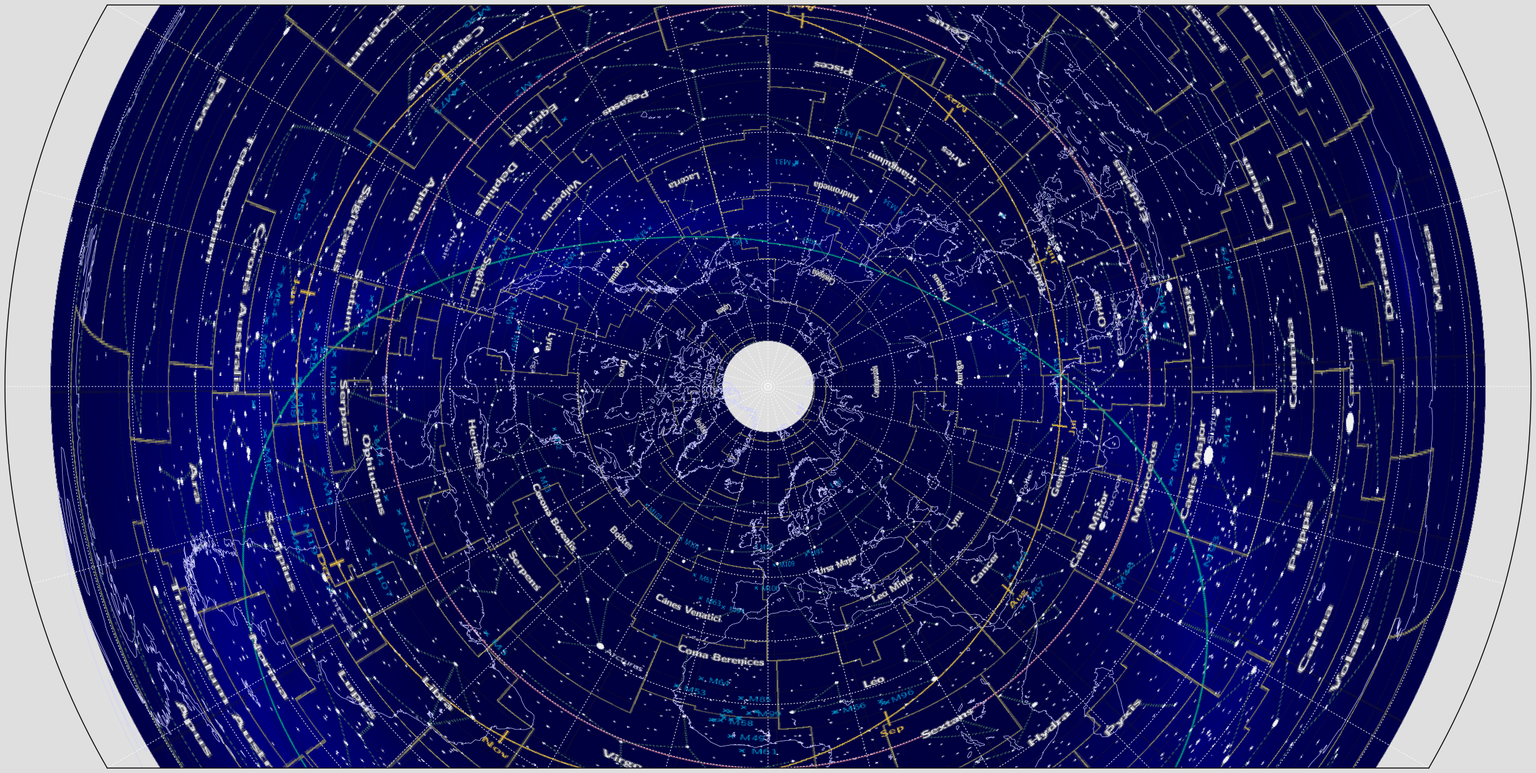
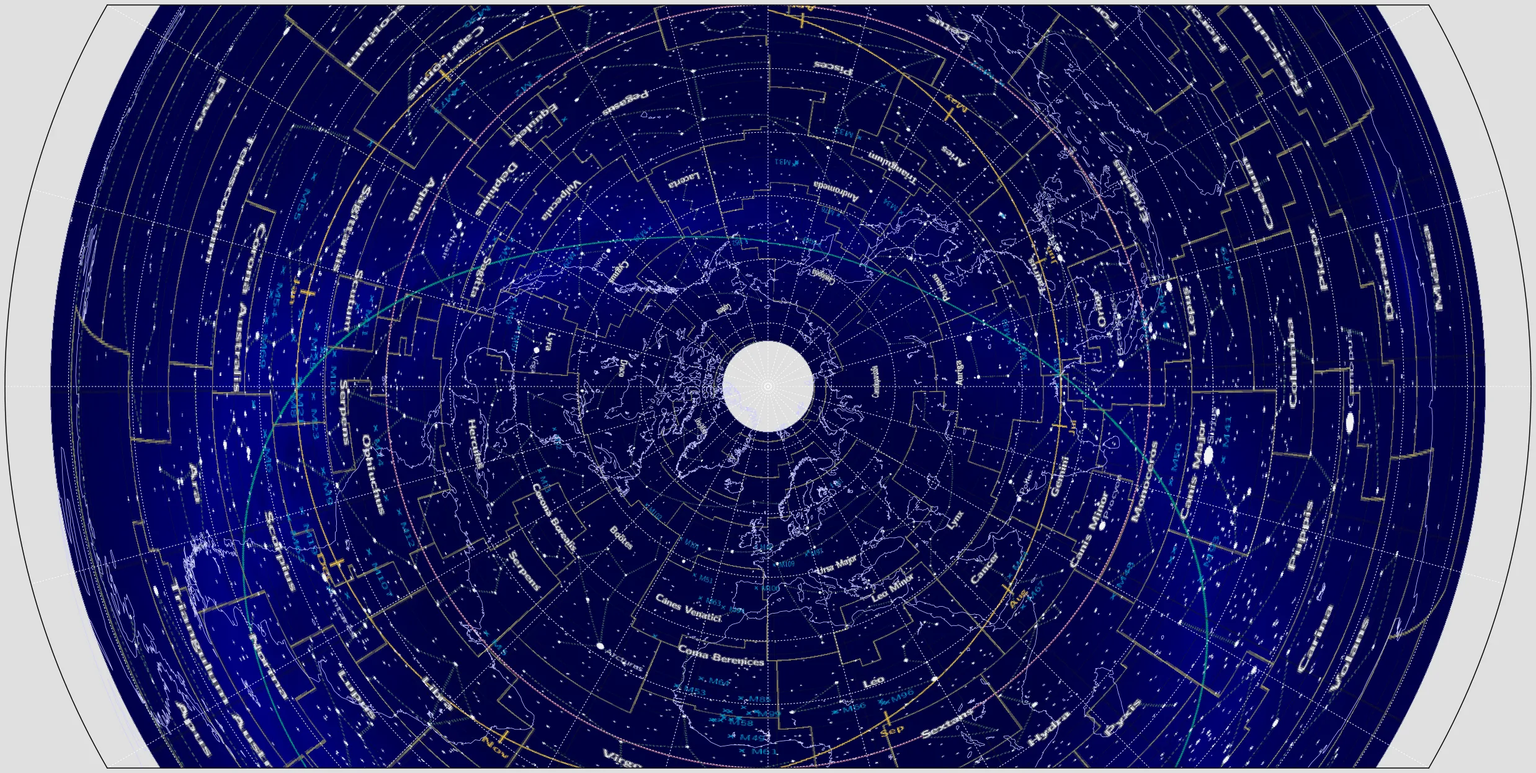
S748 — PageSpeed audit pass
Trimmed ~5.2 MiB of starfield WebPs (q=100 → q=82, no visible
loss). Added role="tablist" to the tabs container so the
role="tab" buttons stop failing a11y. Removed user-scalable=no
from the viewport meta — inputs already 16 px on mobile so iOS
won't auto-zoom, and the canvas keeps its pinch via
touch-action: none. Demos rAF tick is now on-demand (~29 s of
idle polling reclaimed). Autoplay throttled to 30 Hz so each
DateTime setState cascade fires half as often without visibly
slowing the animation.

diff --git a/js/demos/index.js b/js/demos/index.js
@@ -25,32 +25,46 @@ export class Demos {
     // means no demo is holding a snapshot.
     this._savedState = null;
 
-    // Poll the animator each rAF. Two separate transitions matter:
+    // On-demand rAF tick. Two transitions matter:
     //   running → !running  → demo truly ended (queue empty, or
     //     stop() called). Snap to DE405 default ONLY here, so
     //     pausing via the bar's ▶/⏸ button doesn't reset time.
     //   wasPlaying && !nowPlaying while running → advance queue.
-    let wasPlaying = false;
-    let wasRunning = false;
-    const tick = () => {
+    // The loop only runs while a demo is active; it idles out when
+    // both the animator is stopped and the queue is empty so the
+    // browser doesn't burn 60 Hz of polling for the whole session
+    // (Lighthouse counted ~29 s of `demos/index.js` CPU on a Moto G
+    // Power, almost all of it from this idle tick). `_ensureTick`
+    // restarts the loop the next time `_playSingle` is invoked.
+    this._tickActive = false;
+    this._wasRunning = false;
+    this._tick = () => {
       const nowRunning = this.animator.running;
       const nowPlaying = this.animator.isPlaying();
-      if (wasRunning && !nowRunning) {
+      if (this._wasRunning && !nowRunning) {
         const queueDone = !this._queue
           || this._queueCursor >= this._queue.length;
         if (queueDone) this._restoreSavedState();
       }
-      wasRunning = nowRunning;
-      wasPlaying = nowPlaying;
+      this._wasRunning = nowRunning;
       if (this._queue && !nowPlaying && !this.animator.isPaused()
           && this._queueCursor < this._queue.length) {
         const next = this._queue[this._queueCursor++];
         // Defer to microtask so any state-mutation hooks settle.
         Promise.resolve().then(() => this._playSingle(next, /* fromQueue */ true));
       }
-      requestAnimationFrame(tick);
+      if (!nowRunning && !this._queue) {
+        this._tickActive = false;
+        return;
+      }
+      requestAnimationFrame(this._tick);
     };
-    requestAnimationFrame(tick);
+  }
+
+  _ensureTick() {
+    if (this._tickActive) return;
+    this._tickActive = true;
+    requestAnimationFrame(this._tick);
   }
 
   // Restore the model.state snapshot taken at demo / queue start so
@@ -65,6 +79,7 @@ export class Demos {
 
   _playSingle(index, fromQueue = false) {
     if (index < 0 || index >= this.list.length) return;
+    this._ensureTick();
     this.animator.stop();
     // Snapshot pre-demo state on the first play of a (possibly
     // queued) sequence — subsequent queued demos share the same

diff --git a/js/ui/autoplay.js b/js/ui/autoplay.js
@@ -67,10 +67,22 @@ export class Autoplay {
 
   _tick(ts) {
     if (!this.playing) return;
-    const dt = Math.max(0, Math.min(0.1, (ts - this._last) / 1000));  // clamp to 100 ms
+    const dt = (ts - this._last) / 1000;
+    // Throttle the actual `setState` to ~30 Hz. Each setState
+    // cascades into a full `app.update()` (ephemeris, refraction,
+    // tracker positions, scene rebuild on world-mode flip) which
+    // dominated mobile CPU at 60 Hz; halving the cadence halves the
+    // autoplay cost without visibly slowing the animation. Frames
+    // where dt < 33 ms still keep the rAF loop going so the next
+    // tick fires at the correct cadence.
+    if (dt < 0.033) {
+      requestAnimationFrame(this._tick);
+      return;
+    }
+    const dtClamped = Math.min(0.1, dt);  // clamp to 100 ms
     this._last = ts;
     const cur = this.model.state.DateTime;
-    this.model.setState({ DateTime: cur + this.speed * dt });
+    this.model.setState({ DateTime: cur + this.speed * dtClamped });
     requestAnimationFrame(this._tick);
   }
 

diff --git a/js/ui/controlPanel.js b/js/ui/controlPanel.js
@@ -2446,6 +2446,11 @@ export function buildControlPanel(host, model, demos) {
 
   const tabsBar = document.createElement('div');
   tabsBar.className = 'tabs';
+  // role=tablist is the required parent for child role=tab buttons
+  // (Lighthouse a11y: "[role]s are not contained by their required
+  // parent element"). aria-orientation hints at horizontal layout.
+  tabsBar.setAttribute('role', 'tablist');
+  tabsBar.setAttribute('aria-orientation', 'horizontal');
   // No `role="tablist"` on the bar itself: it carries two
   // `<input type="search">` hosts alongside the tab buttons, and
   // ARIA forbids non-`role="tab"` children of a tablist. Each tab

diff --git a/index.html b/index.html
@@ -2,7 +2,7 @@
 <html lang="en">
 <head>
 <meta charset="utf-8">
-<meta name="viewport" content="width=device-width, initial-scale=1.0, maximum-scale=1.0, user-scalable=no, viewport-fit=cover">
+<meta name="viewport" content="width=device-width, initial-scale=1.0, viewport-fit=cover">
 <meta name="theme-color" content="#0e121a">
 <meta name="mobile-web-app-capable" content="yes">
 <meta name="apple-mobile-web-app-capable" content="yes">

diff --git a/sw.js b/sw.js
@@ -12,7 +12,7 @@
 // itself, so installing a fresh worker (here, S736) takes effect on
 // the next navigation cycle.
 
-const CACHE_VERSION = 'fe-v5-s747';
+const CACHE_VERSION = 'fe-v6-s748';
 const STATIC_CACHE  = `${CACHE_VERSION}-static`;
 const RUNTIME_CACHE = `${CACHE_VERSION}-runtime`;
 

diff --git a/change_log_serials.md b/change_log_serials.md
@@ -14135,3 +14135,50 @@ Format:
       `min(620px, calc(100vw - 16px))`.
     - **CACHE_VERSION** bumped `fe-v4-s746 → fe-v5-s747`.
 - **Revert path:** `git checkout v-s000746 -- .`
+
+## S748 — PageSpeed audit pass
+
+- **Date:** 2026-04-30
+- **Files changed:** `index.html`, `js/ui/controlPanel.js`,
+  `js/demos/index.js`, `js/ui/autoplay.js`,
+  `assets/starfield_*.webp`, `assets/ac_logo.webp`, `sw.js`.
+- **Change:**
+    - **Starfield WebPs recompressed q=100 → q=82**:
+        - `starfield_ae_aries.webp`    1403 → 250 KiB (-82 %)
+        - `starfield_ae_aries_2.webp`  1424 → 582 KiB (-59 %)
+        - `starfield_ae_aries_3.webp`  1317 → 151 KiB (-89 %)
+        - `starfield_dark.webp`        1140 → 188 KiB (-84 %)
+        - `starfield_light.webp`        876 → 145 KiB (-83 %)
+      Total payload trimmed ~5.2 MiB (Lighthouse phone "Avoid
+      enormous network payloads" was 15.5 MiB before).
+    - **`ac_logo.webp`** recompressed q=100 → q=80, 9 → 6 KiB.
+    - **`role="tablist"`** + `aria-orientation="horizontal"`
+      added to the bottom-bar tabs container (`.tabs`) in
+      `attachBottomBar`. Closes the Lighthouse a11y failure
+      "[role]s are not contained by their required parent
+      element" — the six `role="tab"` buttons now have a valid
+      tablist parent.
+    - **Removed `maximum-scale=1.0, user-scalable=no`** from
+      the viewport meta. Lighthouse Best Practices flagged it
+      as accessibility-hostile (low-vision users rely on
+      pinch-zoom for legibility). Inputs are already 16 px on
+      mobile (S740) so iOS no longer auto-zooms on focus, and
+      `touch-action: none` on `#feCanvas` (S739) keeps the
+      canvas pinch routed to the model. The page is once again
+      pinch-zoomable on iOS.
+    - **`Demos` rAF tick is now on-demand.** Previously the
+      tick polled the animator every frame from boot until the
+      tab was closed — Lighthouse counted ~29 s of `demos/
+      index.js` CPU on the Moto G Power, almost all of it idle
+      polling. Tick now early-exits + stops the rAF loop when
+      `!nowRunning && !this._queue`; `_ensureTick()` restarts
+      it inside `_playSingle` whenever a demo starts. Demo
+      end-detection still works because the first tick after
+      `_ensureTick` captures `wasRunning = true`.
+    - **`Autoplay._tick` throttled to ~30 Hz**, halving the
+      autoplay CPU cost. Each `setState({ DateTime })` cascades
+      through `app.update()` (ephemeris + refraction + tracker
+      positions); 60 → 30 Hz is invisible to the eye but cuts
+      the per-frame model update by half.
+    - **CACHE_VERSION** bumped `fe-v5-s747 → fe-v6-s748`.
+- **Revert path:** `git checkout v-s000747 -- .`
